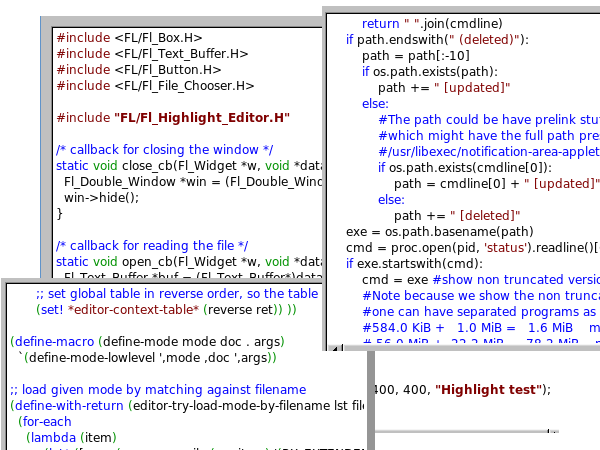
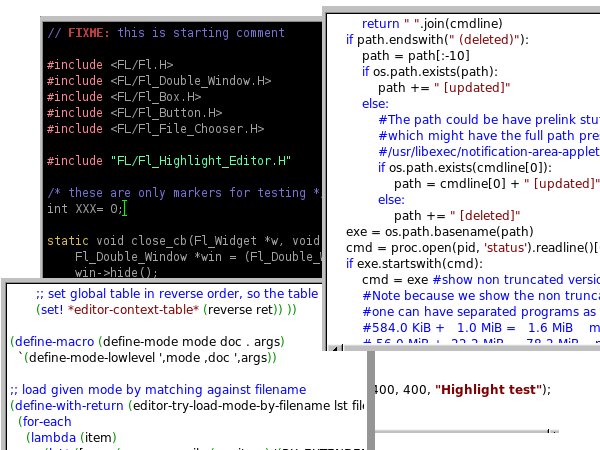
Fixed c-mode to handle important keywords (TODO, FIXME, etc.) inside comments. Updating screenshot.

Changed region(s): [[0.06, 0.0311, 0.54, 0.6222]]

diff --git a/README.md b/README.md
@@ -13,7 +13,7 @@ Extensible and customizable editing widget for
 Fl_Highlight_Editor is a drop in replacement for
 [Fl_Text_Editor](http://www.fltk.org/doc-1.3/classFl__Text__Editor.html) and
 [Fl_Text_Display](http://www.fltk.org/doc-1.3/classFl__Text__Display.html)
-widgets with ability to highlight the text and modify it with embeded
+widgets with ability to highlight the text and modify it with embedded
 [Scheme](http://en.wikipedia.org/wiki/Scheme_%20programming_language%20) scripting language.
 
 The widget is fully self-contained and it doesn't depend on anything
